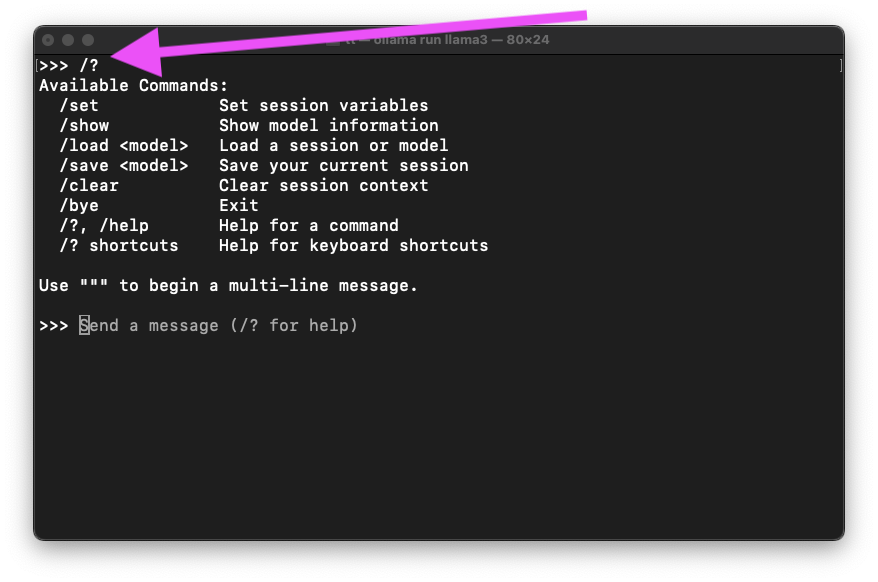
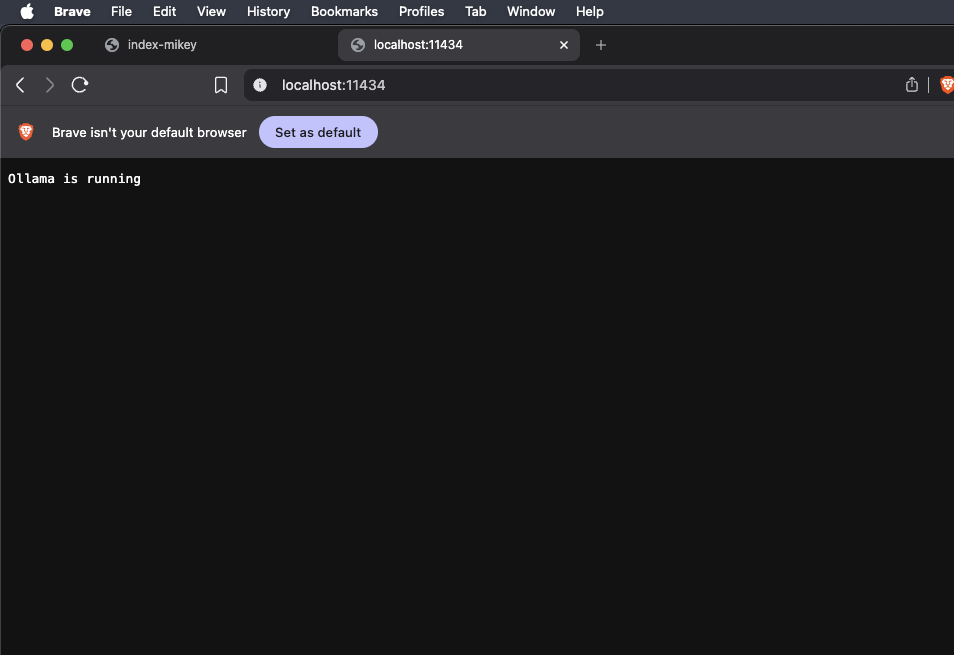
main

diff --git a/topics/01-ollama-full-tutorial-begin/side-bar-links-pages/03/03-01/03-01.html b/topics/01-ollama-full-tutorial-begin/side-bar-links-pages/03/03-01/03-01.html
@@ -7,20 +7,24 @@
         <!-- 01 - 02 -->
          <!-- 06 -->
         <div tabindex="0" class="step-float" data-video="https://www.youtube.com/watch?v=WC0NOMb3Yn0" 
-            data-timestamp="616">
-            <h4>05 - Ollama list</h4>
+            data-timestamp="720">
+            <h4>05 - ollama server</h4>
             <div class="step-img">
-                <img loading="lazy" src="side-bar-links-pages/02/02-01/images/06.png" alt="">
+                <img loading="lazy" src="side-bar-links-pages/03/03-01/images/01.png" alt="">
             </div>
             
             <div  class="step-txt ">
                 <p>
-                    <code>list</code> shows models currently own your computer
+                    Ollama runs on a local address
                 </p>
                 <div class="code-container">
                     <code tabindex="0" class="copy-code">
-ollama list</code>
+http://localhost:11434</code>
                 </div>
+                <p>
+                    type in the address and you should see
+                    <q>Ollama is running</q>
+                </p>
             </div>
         </div>
         <div class="step-floats-container">

diff --git a/topics/01-ollama-full-tutorial-begin/index-mikey.html b/topics/01-ollama-full-tutorial-begin/index-mikey.html
@@ -93,12 +93,15 @@
                                 href="side-bar-links-pages/02/02.html">ollama commands
                             </a>
                         </li>
-                        <li><a tabindex="0" class="drop-down" data-video="https://www.youtube.com/watch?v=WC0NOMb3Yn0" 
-                                data-timestamp="705"
-                                href="side-bar-links-pages/03/03.html">ollama serve</a>
+                        <!-- 3. -->
+                        <li>
+                            <a tabindex="0" class="drop-down" data-video="https://www.youtube.com/watch?v=WC0NOMb3Yn0" 
+                                data-timestamp="701"
+                                href="side-bar-links-pages/03/03.html">ollama server
+                            </a>
                             <ul class="drop-snips show ">
                                 <li><a autofocus href="side-bar-links-pages/03/03-01/03-01.html" data-video="https://www.youtube.com/watch?v=WC0NOMb3Yn0" 
-                                    data-timestamp="705"><code>serve</code></a>
+                                    data-timestamp="701"><code>serve</code></a>
                                 </li>
                             </ul>
                         </li>